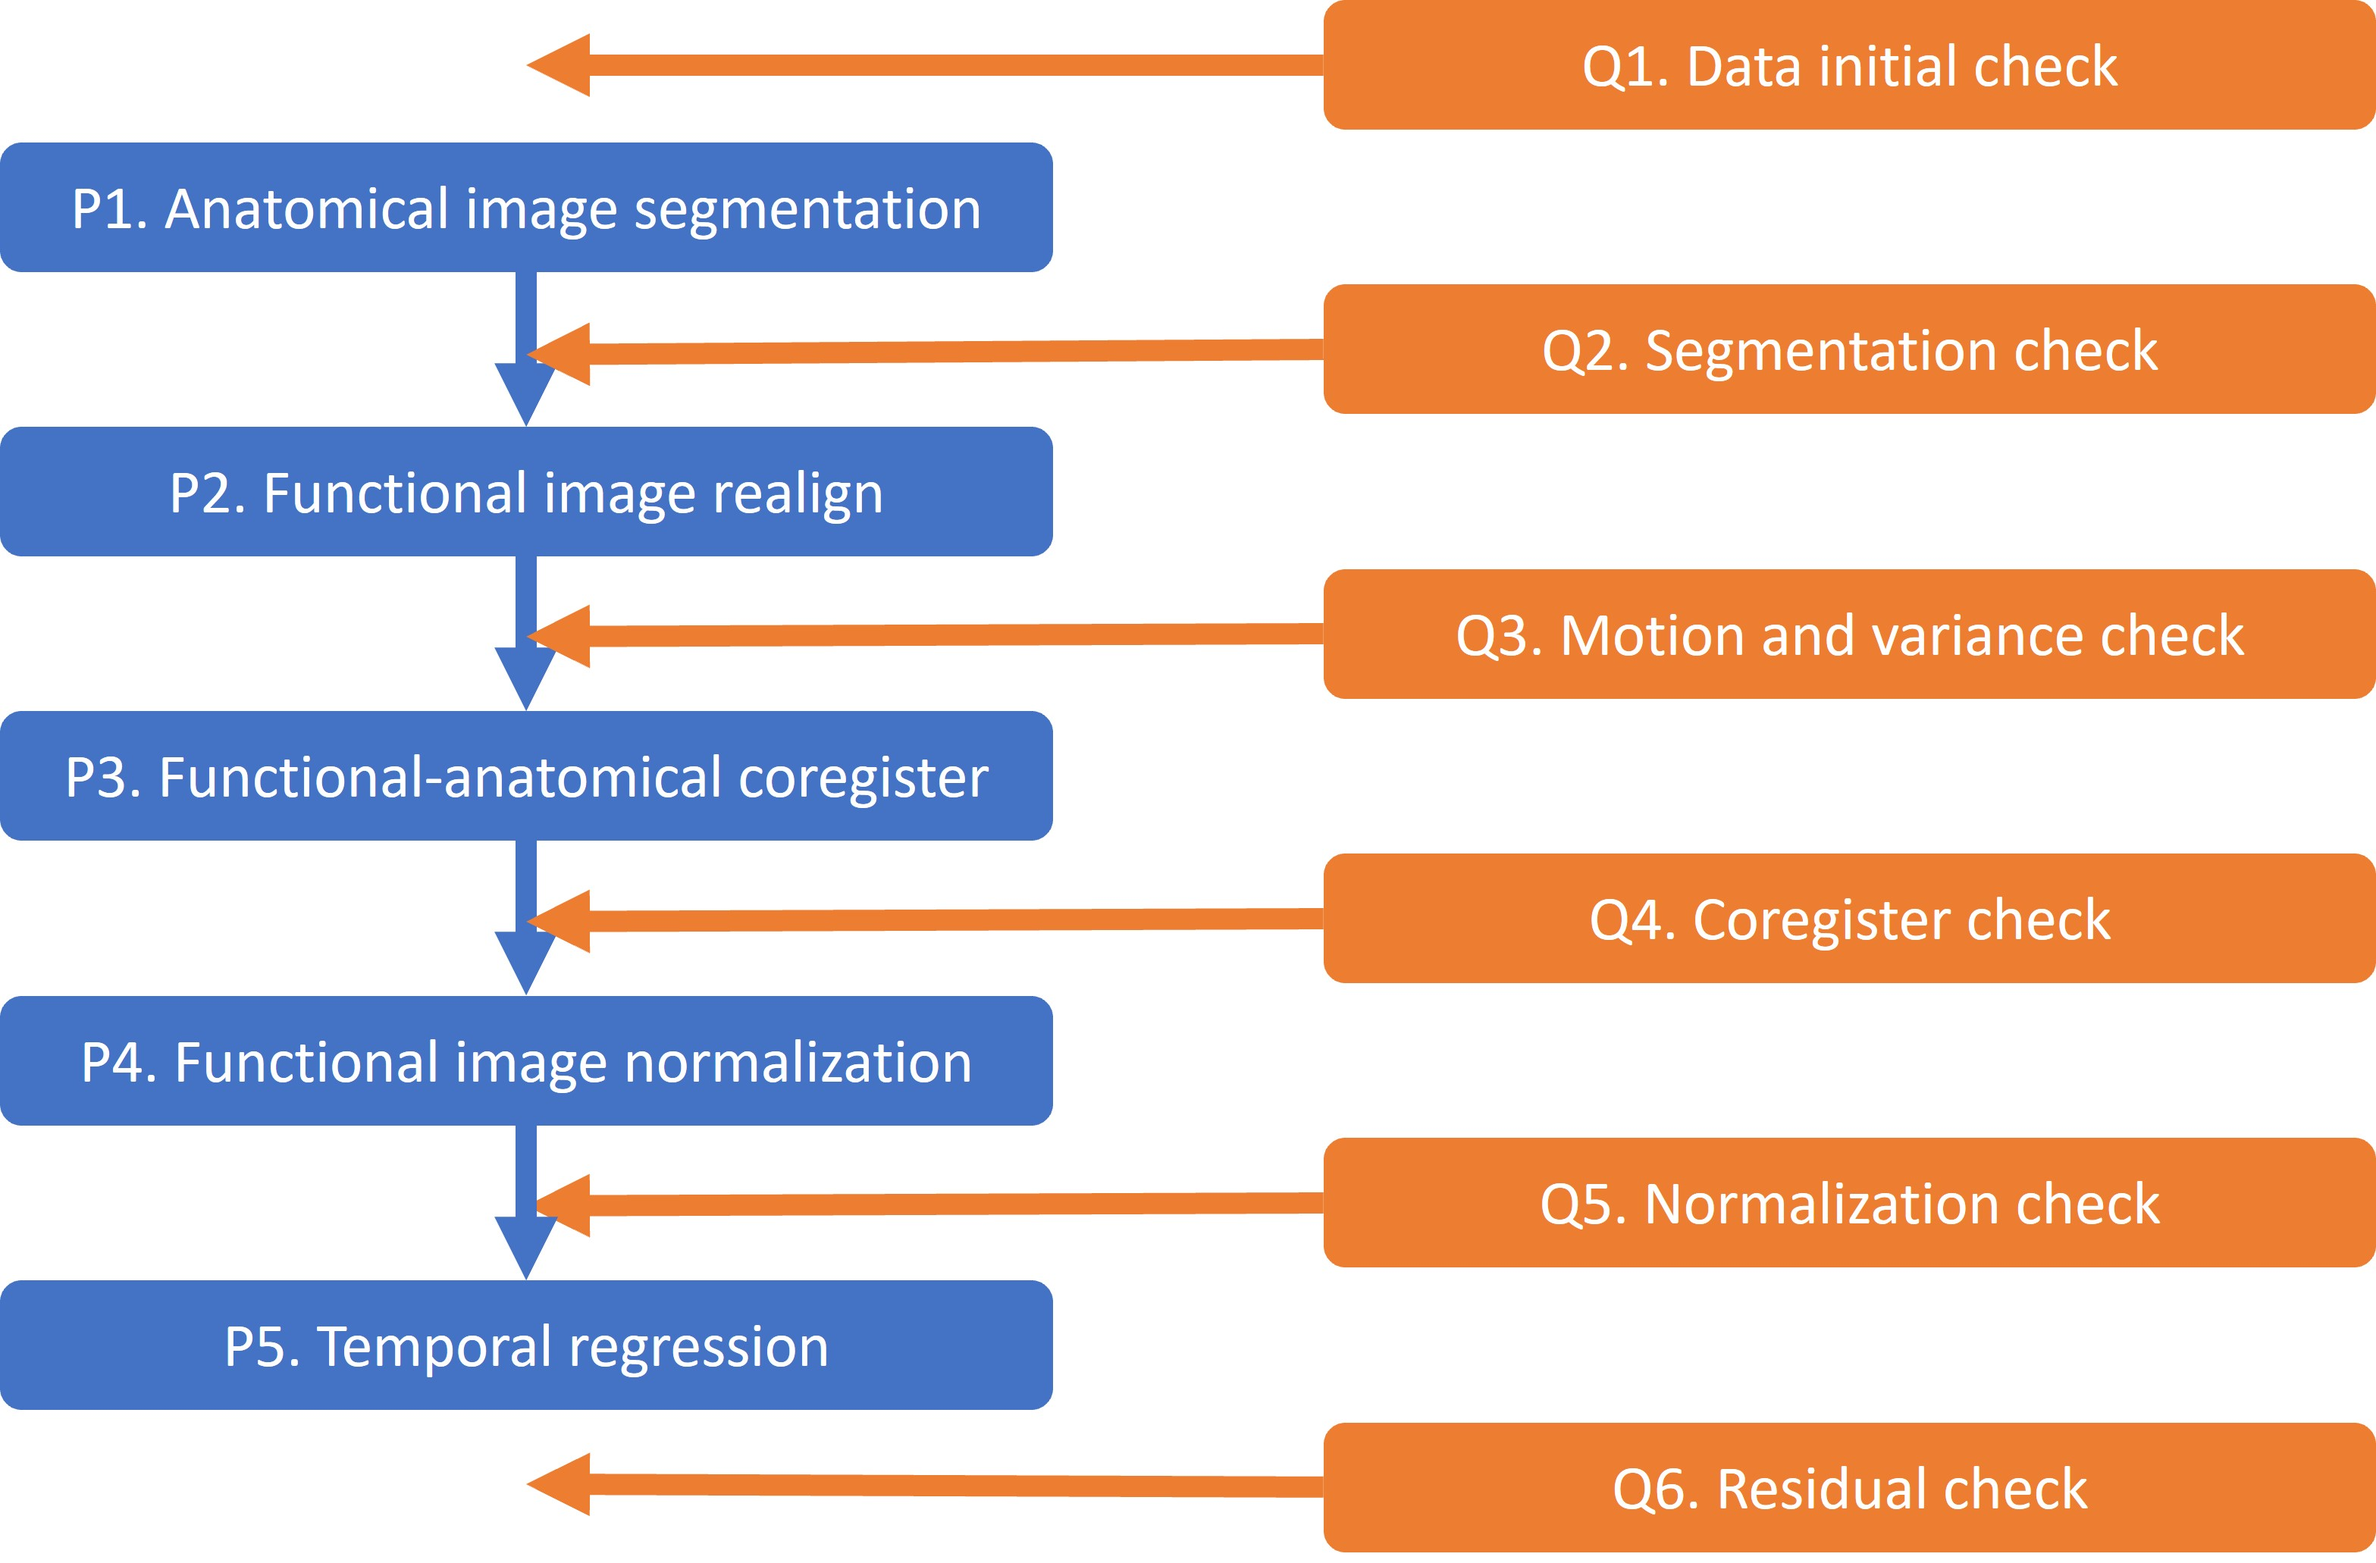
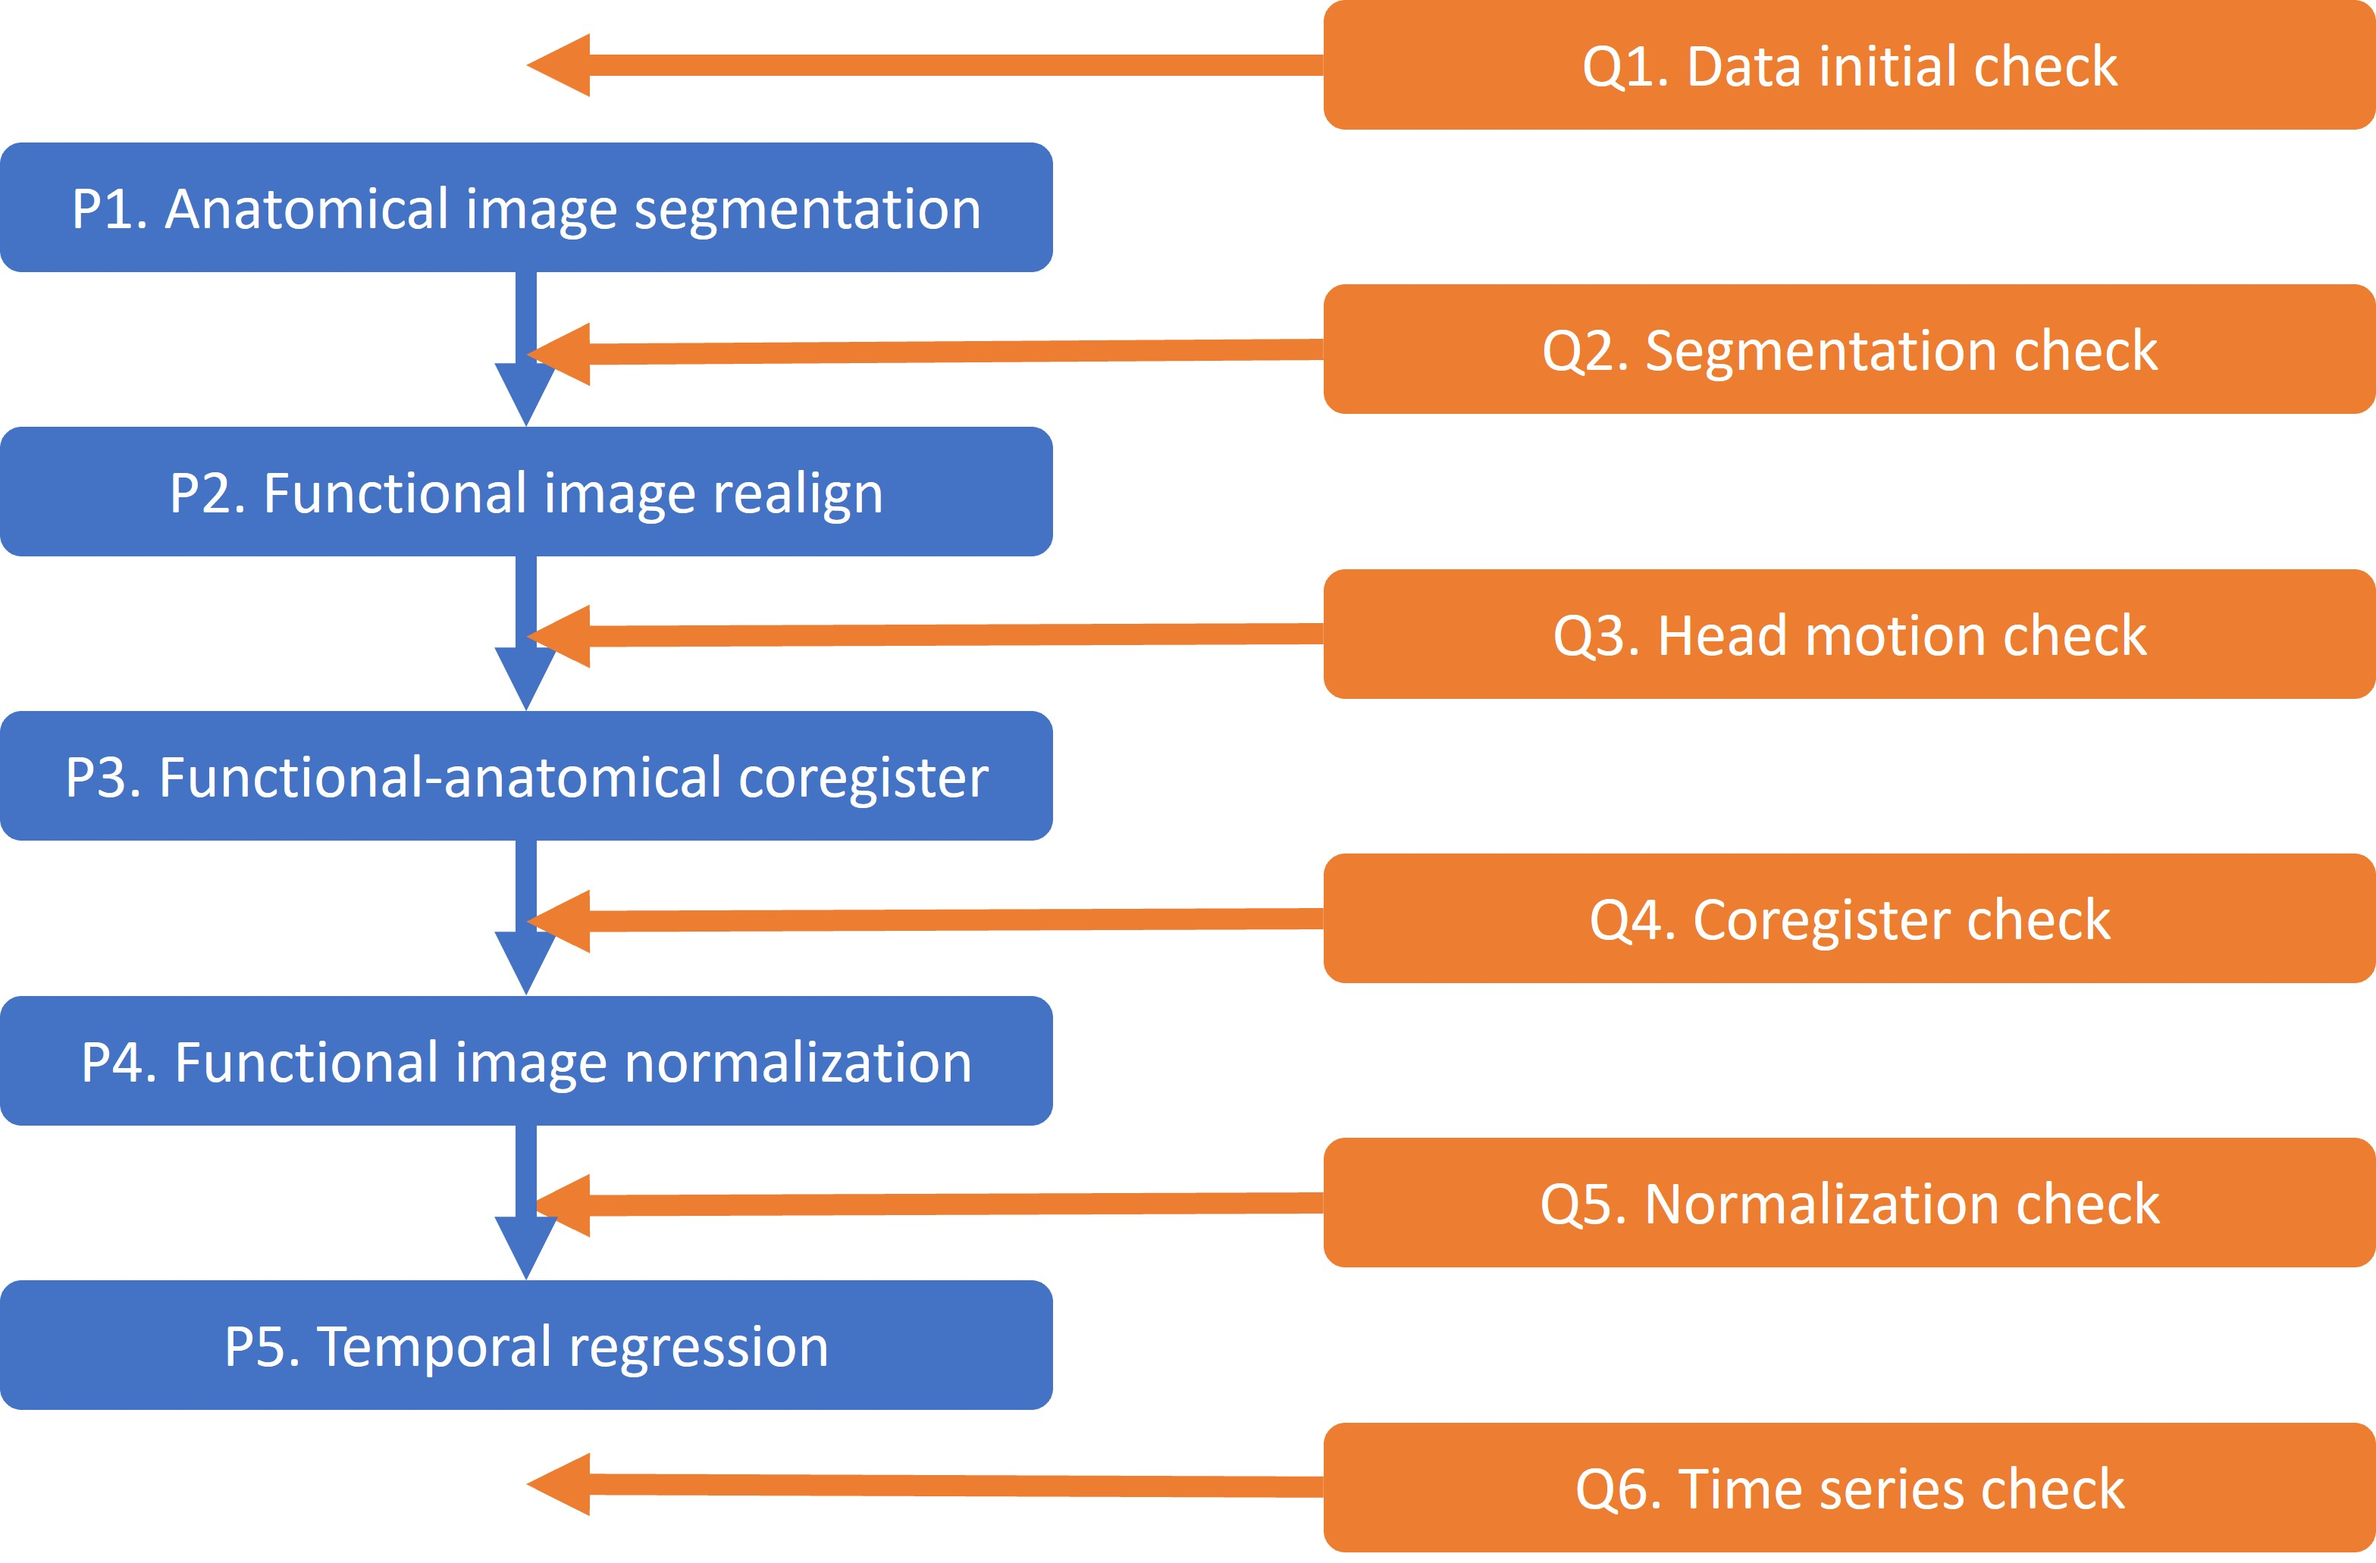
update the head motion step

Changed region(s): [[0.619, 0.3725, 0.9595, 0.4345], [0.65, 0.9311, 0.8976, 0.9622]]

diff --git a/Codes/Q3_framewise_displacement.m b/Codes/Q3_framewise_displacement.m
@@ -1,0 +1,84 @@
+clear
+subjfolder_task = dir('F:\fMRI_QC\fmri-open-qc-task_bias_corrected\sub*');
+
+for subji = 1:length(subjfolder_task)
+    rp = load(['F:\fMRI_QC\fmri-open-qc-task_bias_corrected\' subjfolder_task(subji).name '\func\rp_' subjfolder_task(subji).name '_task-pamenc_bold.txt']);
+
+    fd_trans = fd_calc(rp(:,1:3));
+    fd_rotat = fd_calc(rp(:,4:6)*180/pi);
+    
+    fd_max_trans_task(subji,1) = max(fd_trans);
+    fd_max_rotat_task(subji,1) = max(fd_rotat);
+    
+    fd_mean_trans_task(subji,1) = mean(fd_trans);
+    fd_mean_rotat_task(subji,1) = mean(fd_rotat);
+end
+
+subjfolder_rest = dir('F:\fMRI_QC\fmri-open-qc-rest_bias_corrected\sub*');
+
+for subji = 1:length(subjfolder_rest)
+    rp = load(['F:\fMRI_QC\fmri-open-qc-rest_bias_corrected\' subjfolder_rest(subji).name '\func\rp_' subjfolder_rest(subji).name '_ses-01_task-rest_run-01_bold.txt']);
+
+    fd_trans = fd_calc(rp(:,1:3));
+    fd_rotat = fd_calc(rp(:,4:6)*180/pi);
+    
+    fd_max_trans_rest(subji,1) = max(fd_trans);
+    fd_max_rotat_rest(subji,1) = max(fd_rotat);
+    
+    fd_mean_trans_rest(subji,1) = mean(fd_trans);
+    fd_mean_rotat_rest(subji,1) = mean(fd_rotat);
+end
+
+subjfolder = [subjfolder_task;subjfolder_rest];
+
+fd_max_trans = [fd_max_trans_task;fd_max_trans_rest];
+fd_max_rotat = [fd_max_rotat_task;fd_max_rotat_rest];
+
+fd_mean_trans = [fd_mean_trans_task;fd_mean_trans_rest];
+fd_mean_rotat = [fd_mean_rotat_task;fd_mean_rotat_rest];
+
+figure('DefaultAxesFontSize',18)
+scatterhist(fd_max_trans,fd_max_rotat,'NBins',[100 100],'Direction','out','Marker','.','MarkerSize',10)
+xline(1.5,'r');yline(1.5,'r')
+title('FD Max')
+xlabel('Translation');ylabel('Rotation')
+box off
+
+exportgraphics(gcf,['C:\Users\synge\Documents\GitHub\Preprocessing_and_QC\QC_images\Q3_head_motion.jpg']);
+
+% figure('DefaultAxesFontSize',18)
+% scatterhist(fd_mean_trans,fd_mean_rotat,'NBins',[100 100],'Direction','out','Marker','.','MarkerSize',10)
+% xline(0.15,'r');yline(0.15,'r')
+% title('FD Mean')
+% xlabel('Translation');ylabel('Rotation')
+% box off
+
+
+
+% site effects
+% n_site = [30 20 20 16 23 20 20 20];
+% site = [];
+% for sitei = 1:length(n_site)
+%     site = [site;ones(n_site(sitei),1)*sitei];
+% end
+% 
+% figure('DefaultAxesFontSize',18)
+% scatterhist(fd_max_trans,fd_max_rotat,'Group',site,'Kernel','on','NBins',[100 100],'Direction','out','Marker','.')
+% xline(1.5,'r');yline(1.5,'r')
+% title('FD Max')
+% xlabel('Translation');ylabel('Rotation')
+% box off
+
+
+included = find(fd_max_trans<1.5&fd_max_rotat<1.5);
+excluded = find(fd_max_trans>1.5|fd_max_rotat>1.5);
+
+subjfolder(excluded).name
+
+
+function fd = fd_calc(Y)
+% calculate framewise displacement
+    Y_diff = diff(Y);
+    multp = Y_diff*Y_diff';
+    fd = sqrt(diag(multp));
+end

diff --git a/Codes/Q1a_MRI_information.m b/Codes/Q1a_MRI_information.m
@@ -28,7 +28,9 @@ end
 
 
 % Plot all the parameters across participants
-figure('DefaultAxesFontSize',18)
+fh = figure('DefaultAxesFontSize',18);
+fh.WindowState = 'maximized';
+
 subplot(4,1,1)
 bar(n_image)
 title('# of fMRI images')
@@ -60,4 +62,6 @@ xline([20.5,40.5,56.5,79.5,99.5,119.5]);
 xticks([10,30,48,68,89,109,129])
 xticklabels({'Rest1','Rest2','Rest3','Rest4','Rest5','Rest6','Rest7'})
 box off
+
+exportgraphics(gcf,['C:\Users\synge\Documents\GitHub\Preprocessing_and_QC\QC_images\Q1a_scanning_parameters.jpg']);
 
